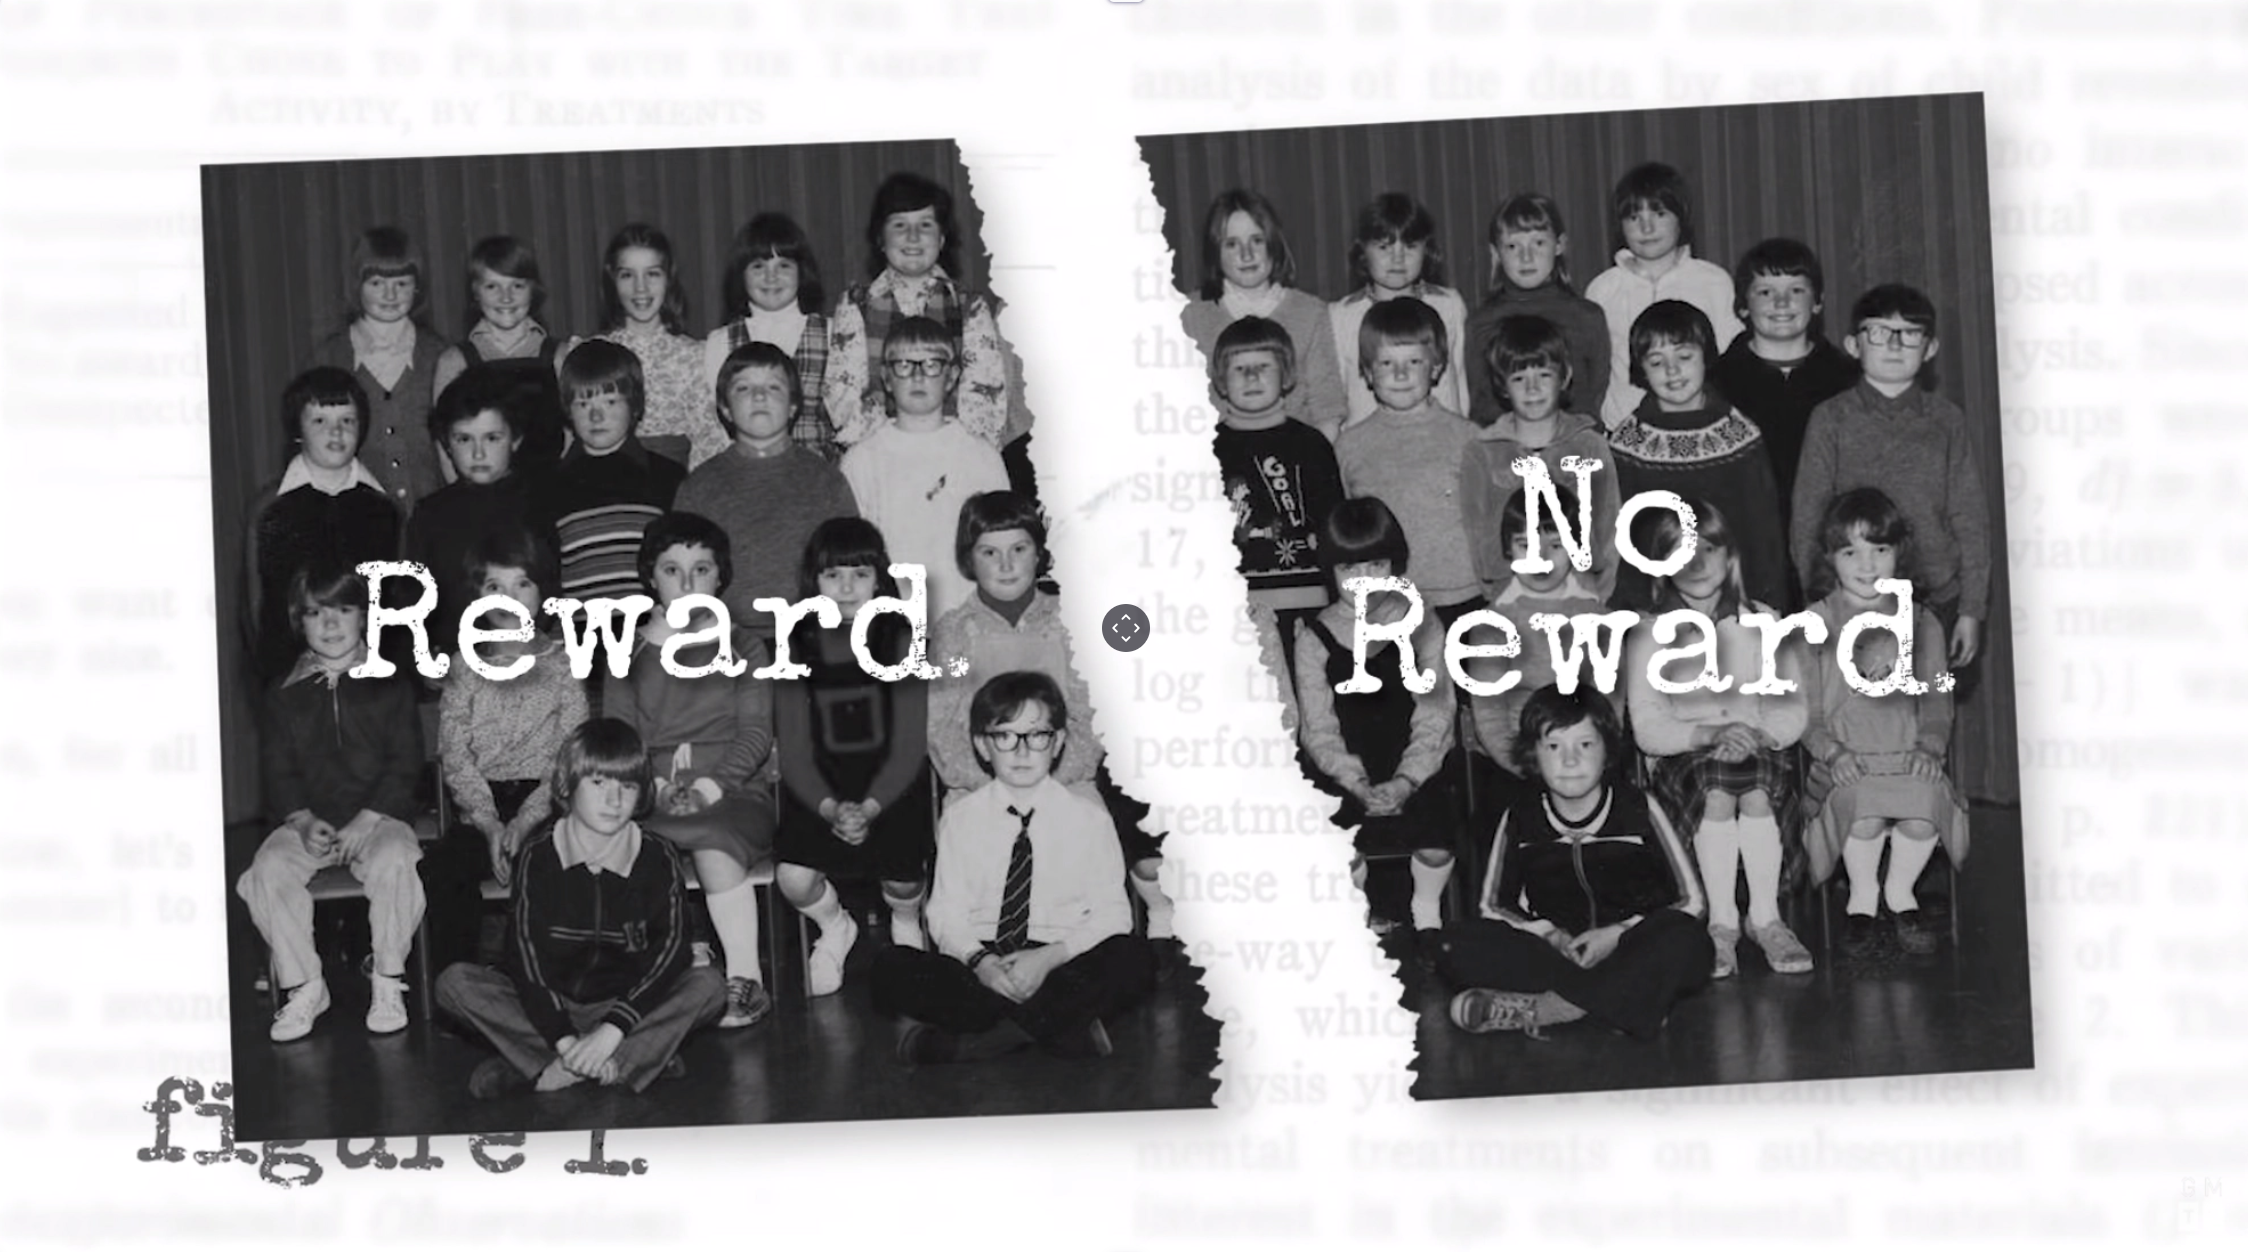
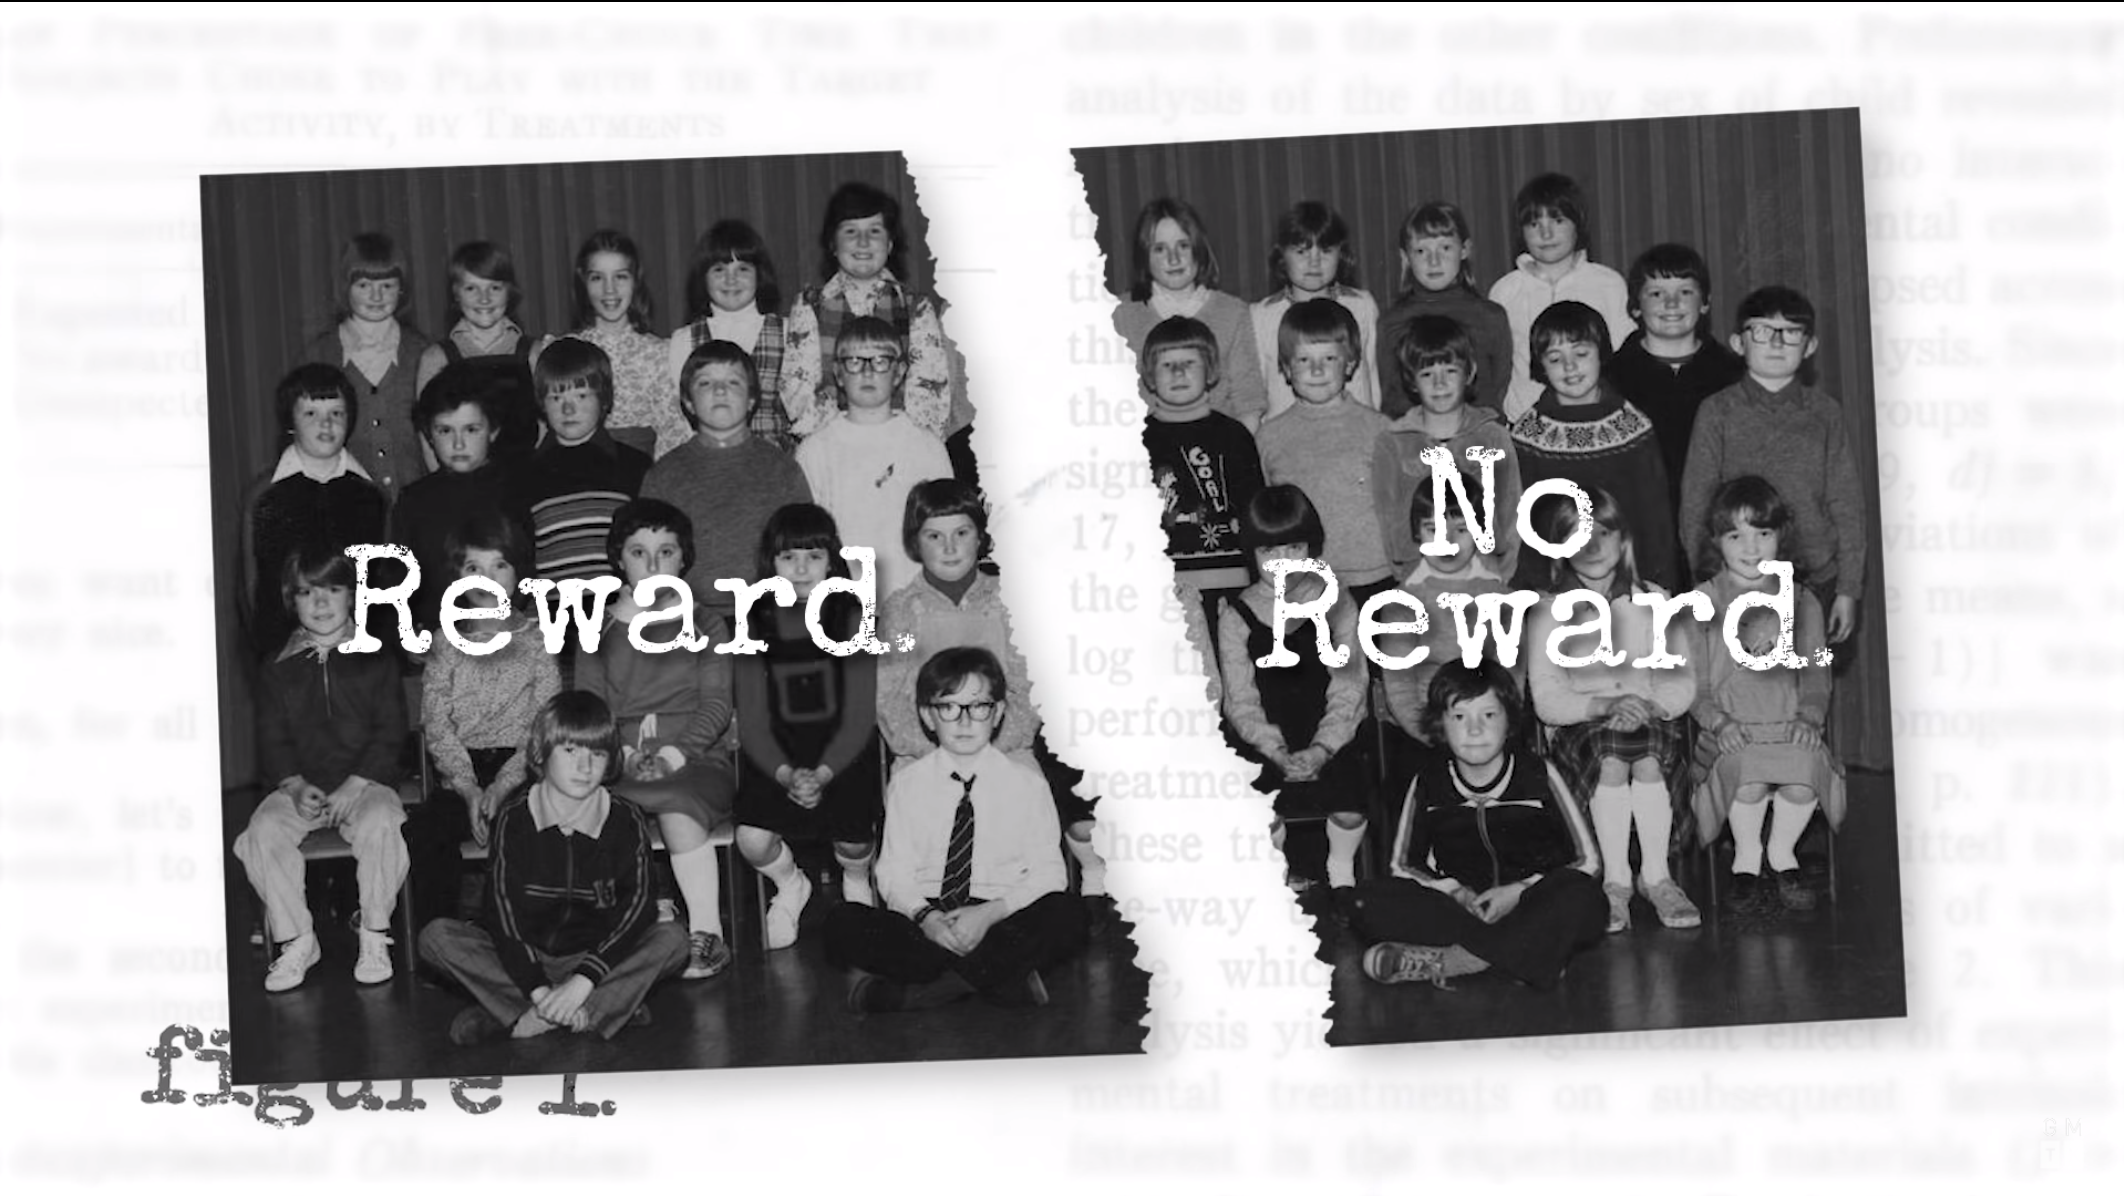
✨ Update text and media

diff --git a/components/MDXComponents/AlternatingImageBlock.tsx b/components/MDXComponents/AlternatingImageBlock.tsx
@@ -1,0 +1,102 @@
+import styled from "styled-components";
+import { theme } from "../../config/theme";
+import { Fragment } from "react";
+import Image from "next/image";
+
+const ChapterExcerpt = styled.p`
+  min-width: 200px;
+  max-width: 540px;
+  position: relative;
+  z-index: 2;
+`;
+
+const ChapterContainer = styled.div`
+  display: flex;
+  flex-wrap: wrap;
+  justify-content: space-between;
+  align-items: center;
+  width: 100%;
+  padding: 3.2rem 0;
+
+  @media (min-width: ${theme.breakpoints.phone}px) {
+    flex-direction: row;
+
+    & :nth-child(odd) {
+      flex-direction: row-reverse;
+    }
+  }
+
+  @media (max-width: ${theme.breakpoints.phone}px) {
+    flex-direction: unset;
+    padding: 2rem 0;
+  }
+`;
+
+const Spacer = styled.div`
+  width: 5rem;
+
+  @media (max-width: ${theme.breakpoints.tablet}px) {
+    width: 2.4rem;
+  }
+
+  @media (max-width: ${theme.breakpoints.phone}px) {
+    display: none;
+  }
+`;
+
+const ChapterTextContainer = styled.div`
+  position: relative;
+  color: #0f0f0f;
+  flex-basis: 50%;
+  flex-grow: 1;
+  margin-bottom: 2rem;
+
+  @media (max-width: ${theme.breakpoints.phone}px) {
+    margin-bottom: 1.2rem;
+  }
+`;
+
+const ChapterImageContainer = styled.div`
+  flex-basis: 40%;
+  flex-grow: 1;
+  min-width: 300px;
+  max-width: 540px;
+`;
+
+const ChapterTitle = styled.h3`
+  z-index: 1;
+  color: var(--color-fg);
+  font-weight: bold;
+  position: relative;
+  line-height: 1.1em;
+  margin-top: 0;
+`;
+
+interface Props {
+  src: string;
+  title: string;
+  desc: string;
+}
+
+const AlternatingImageBlock = ({ src, title, desc }: Props) => {
+  return (
+    <ChapterContainer>
+      <ChapterTextContainer>
+        <ChapterTitle>{title}</ChapterTitle>
+
+        <ChapterExcerpt>{desc}</ChapterExcerpt>
+      </ChapterTextContainer>
+
+      {src ? (
+        <Fragment>
+          <Spacer />
+          <ChapterImageContainer>
+            <Image layout="responsive" height={300} width={300} src={src} />
+          </ChapterImageContainer>
+        </Fragment>
+      ) : null}
+    </ChapterContainer>
+  );
+};
+
+export default AlternatingImageBlock;

diff --git a/components/MDXComponents/SideBySide.tsx b/components/MDXComponents/SideBySide.tsx
@@ -4,7 +4,8 @@ import styled from "styled-components";
 const StyledSideBySide = styled.div`
   display: flex;
   justify-content: space-around;
-  align-items: center;
+  align-items: ${(props: { align: string }) =>
+    props.align ? props.align : "flex-start"};
   flex-flow: row wrap;
   gap: 2rem;
 
@@ -17,8 +18,9 @@ const StyledSideBySide = styled.div`
 
 interface Props {
   children: ReactNode;
+  align: "flex-start" | "flex-end" | "center";
 }
 
-export default function SideBySide({ children }: Props): ReactElement {
-  return <StyledSideBySide>{children}</StyledSideBySide>;
+export default function SideBySide({ children, align }: Props): ReactElement {
+  return <StyledSideBySide align={align}>{children}</StyledSideBySide>;
 }
